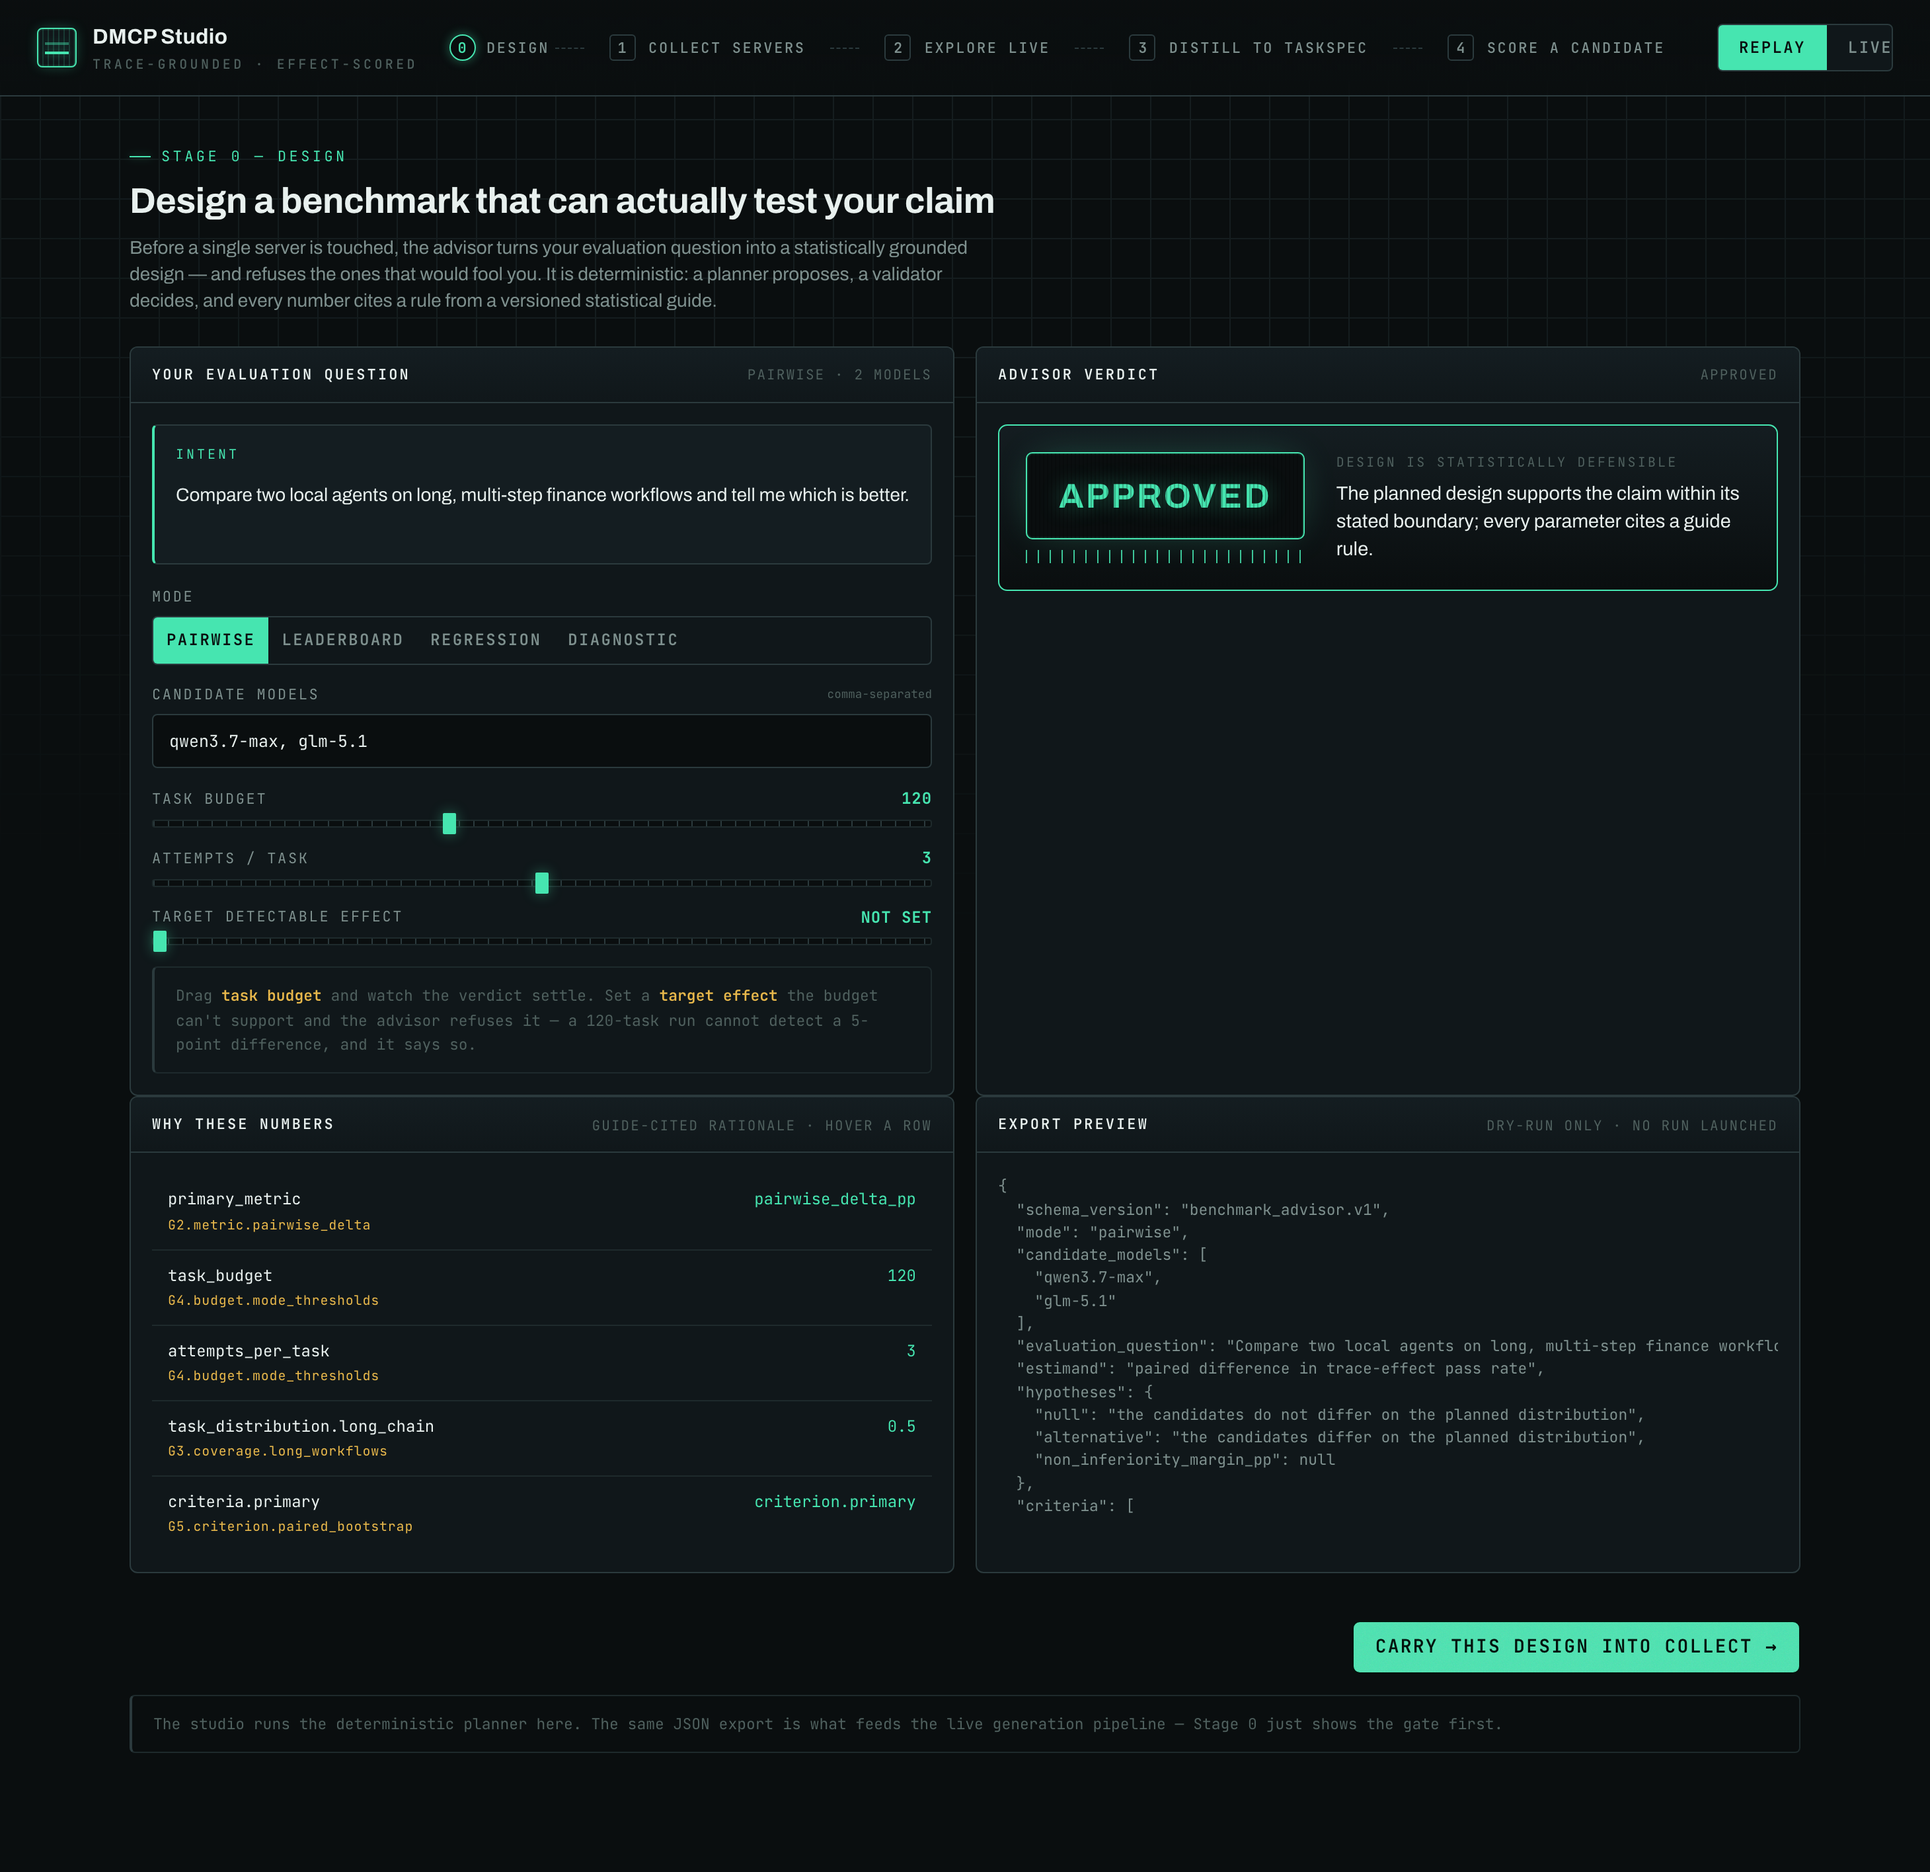
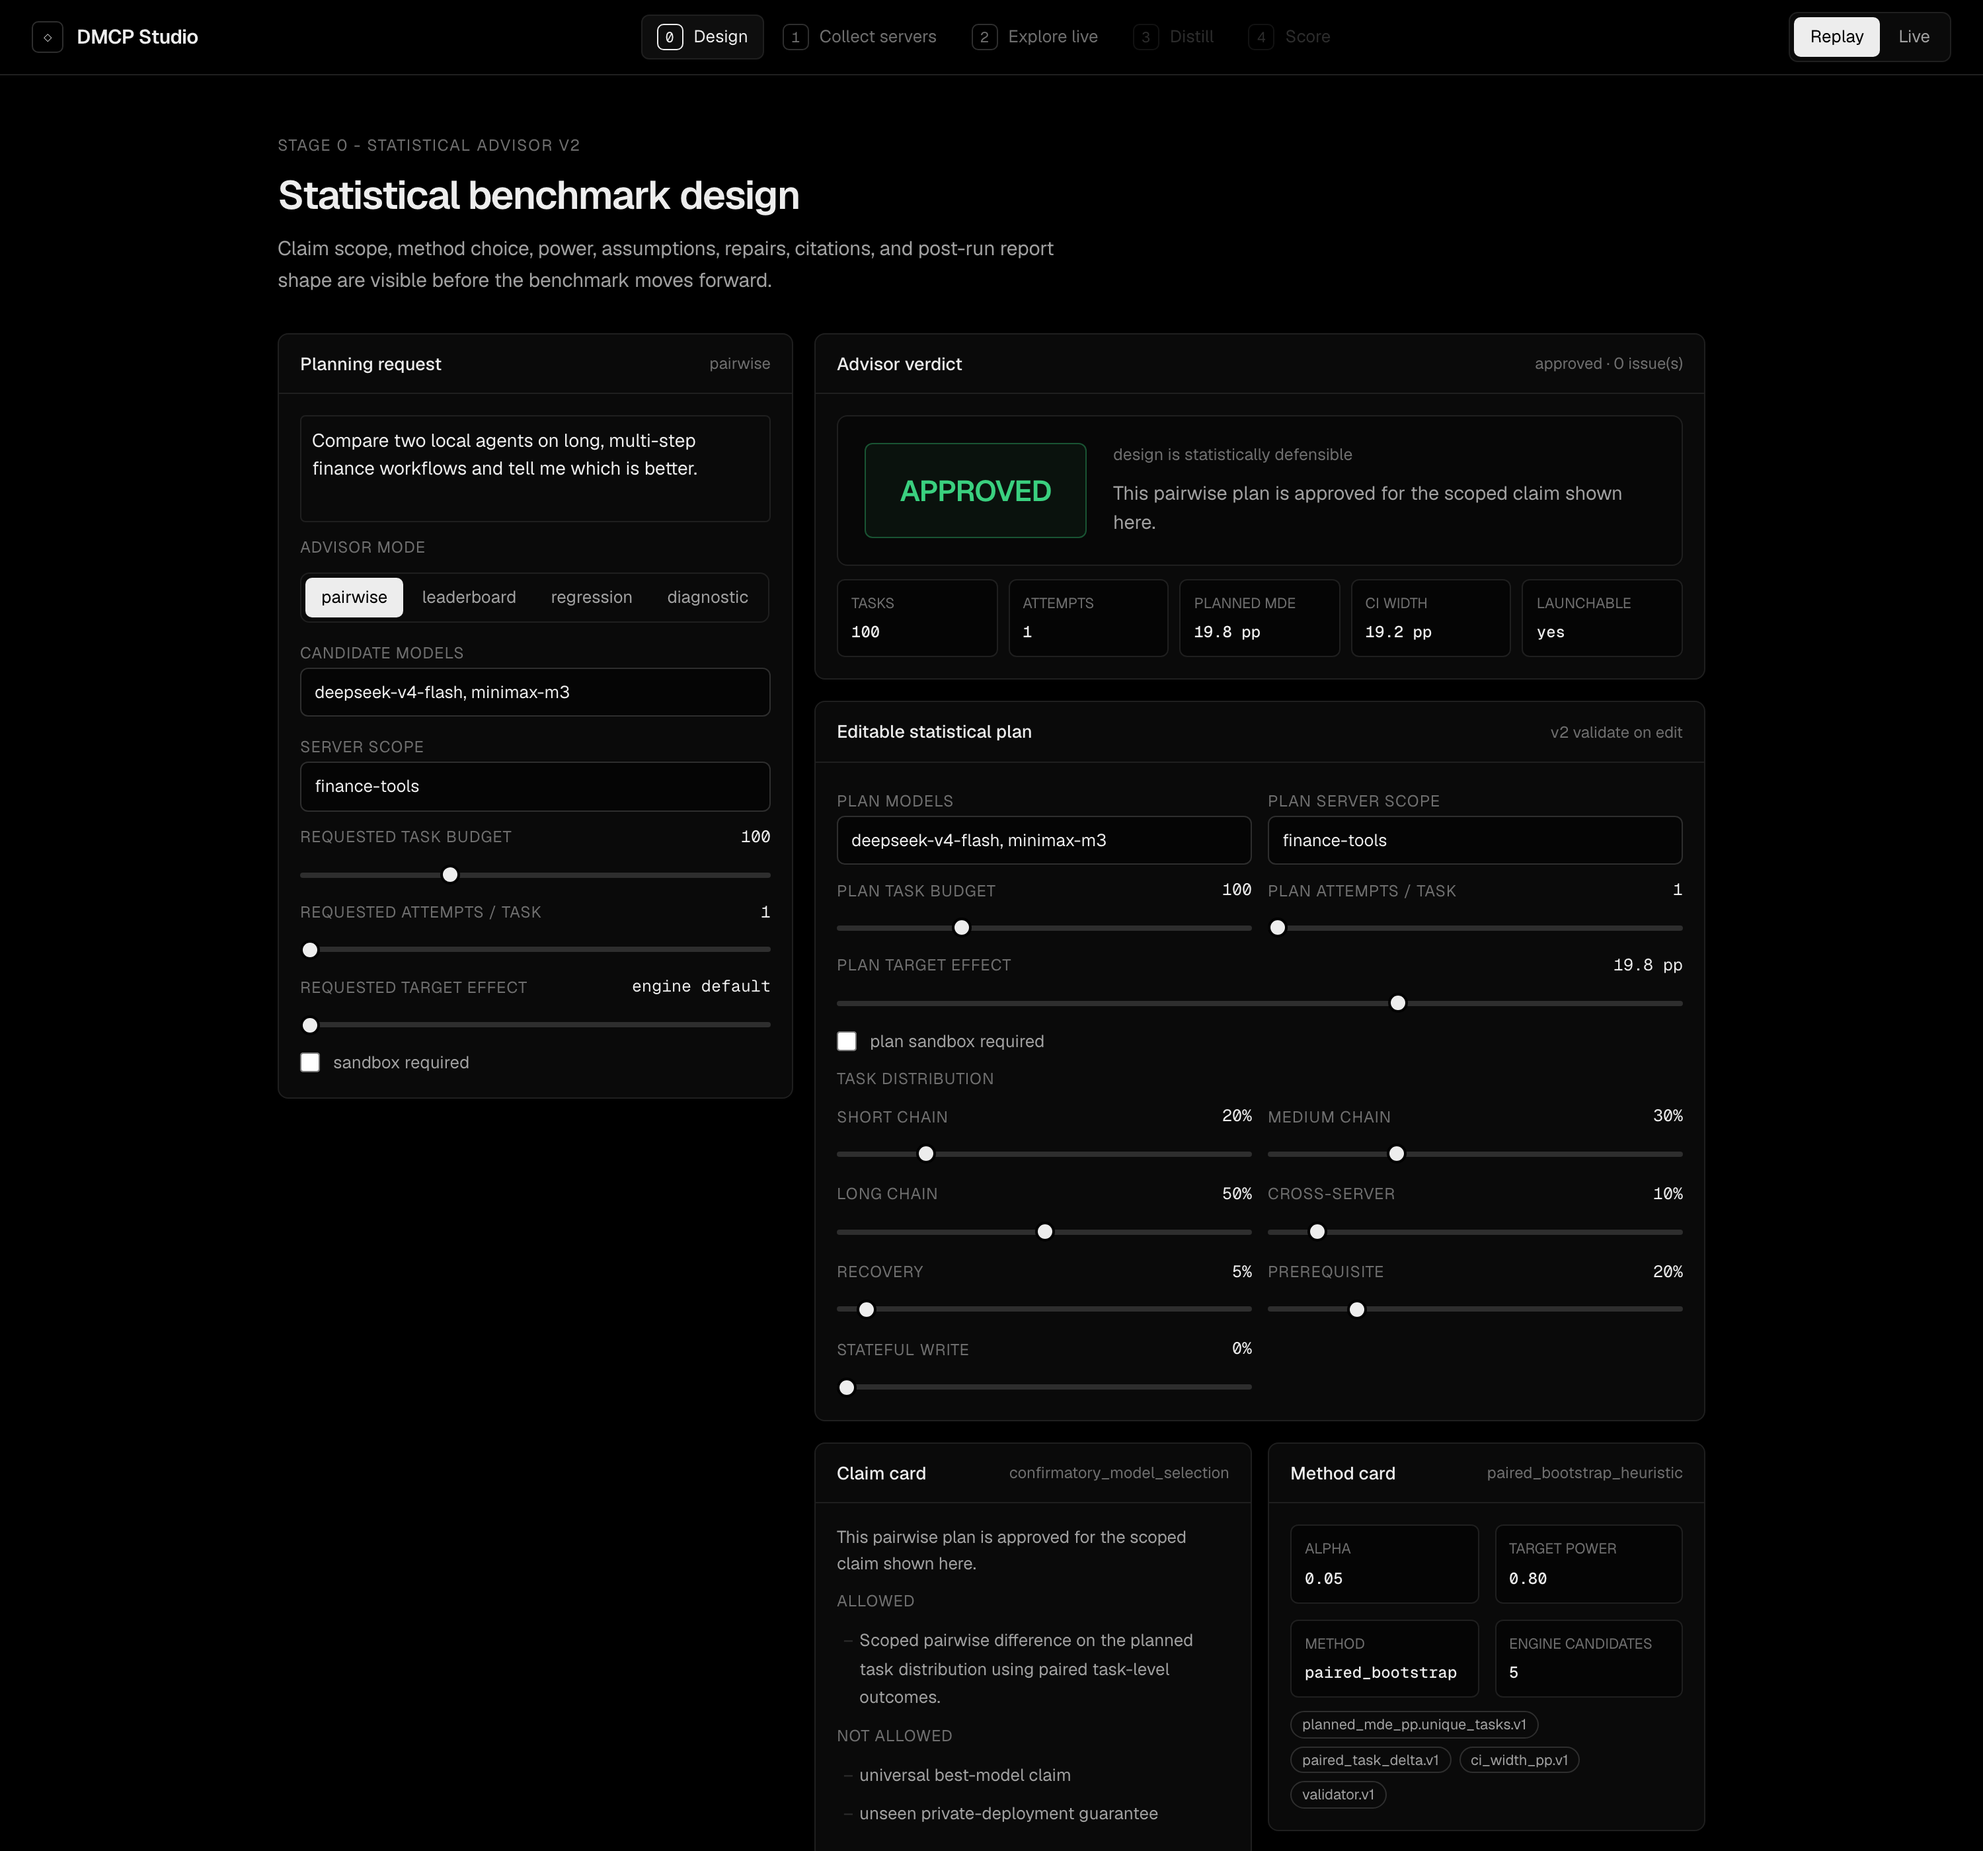
chore(studio): recapture paper figures from the React UI + testid hooks
The committed fig_studio/fig_advisor screenshots were captured from the old
vanilla-JS UI (pre-React), and capture_screenshot.py drove dead DOM ids, so it
could not regenerate them. Rewrite the capture for the React + Geist SPA and
re-shoot both figures against the deterministic REPLAY backend.

- Add minimal data-testid hooks (no behavior change): advisor-stage/data-ready
  and data-status on the Design section, score-stage on the Score section, and
  verdict-chip on the shared Verdict component — stable anchors for the capture.
- Rewrite capture_screenshot.py: drive Stage 0 (advisor v2 workbench) and the
  Stage 4 verdict flip via testids + roles + the nav bar; env-tunable geometry.
- fig_advisor.png: the v2 statistical workbench — APPROVED verdict, MDE/CI metric
  strip, claim card (allowed / not-allowed boundaries), method card + formula
  citations. fig_studio.png: hermes3-8b marked FAILED, checkpoint #5 unmet, the
  download/get_price_history equivalence chips on checkpoint #3.
- Fix a UI polish bug the recapture surfaced: the plan target effect rendered an
  unrounded float (19.810199057996726 pp) -> round to one decimal.

Frontend: typecheck unchanged (pre-existing LaunchJob warning), 30 vitest tests
pass. Paper rebuilds clean: content ends page 6, appendix <= 2 pp, no undefined
refs.

diff --git a/dmcp-studio/frontend/src/stages/Design.tsx b/dmcp-studio/frontend/src/stages/Design.tsx
@@ -556,7 +556,12 @@ export function Design() {
 
   return (
     <FieldHelpProvider>
-      <section className="stage advisor-v2">
+      <section
+        className="stage advisor-v2"
+        data-testid="advisor-stage"
+        data-ready={currentPlan ? "1" : "0"}
+        data-status={status ?? "pending"}
+      >
         <div className="eyebrow">Stage 0 - Statistical Advisor v2</div>
         <h1>Statistical benchmark design</h1>
         <p className="lede">
@@ -966,7 +971,7 @@ function PlanEditor({
         </div>
         <Field
           label="plan target effect"
-          value={target > 0 ? `${target} pp` : "not set"}
+          value={target > 0 ? `${target.toFixed(1)} pp` : "not set"}
           help={HELP.planTarget}
         >
           <Slider

diff --git a/dmcp-studio/frontend/src/components/Verdict.tsx b/dmcp-studio/frontend/src/components/Verdict.tsx
@@ -15,7 +15,9 @@ export function Verdict({
 }) {
   return (
     <div className={"verdict" + (tone ? " " + tone : "")}>
-      <div className="verdict-chip">{chip}</div>
+      <div className="verdict-chip" data-testid="verdict-chip">
+        {chip}
+      </div>
       <div className="verdict-why">
         <div className="verdict-mode">{mode}</div>
         <div className="verdict-text">{children}</div>

diff --git a/dmcp-studio/frontend/src/stages/Score.tsx b/dmcp-studio/frontend/src/stages/Score.tsx
@@ -14,7 +14,7 @@ export function Score() {
   const verdict = done ? scoreVerdict(done, s.scoreMode) : null;
 
   return (
-    <section className="stage">
+    <section className="stage" data-testid="score-stage" data-scored={done ? "1" : "0"}>
       <div className="eyebrow">Stage 4 — effect-scored evaluation</div>
       <h1>Grade the effects, not the answer</h1>
       <p className="lede">

diff --git a/dmcp-studio/experiments/capture_screenshot.py b/dmcp-studio/experiments/capture_screenshot.py
@@ -1,19 +1,28 @@
 #!/usr/bin/env python3
-"""Capture the DMCP Studio hero screenshot for the paper's main figure.
+"""Capture the two DMCP Studio figures for the paper (React + Geist SPA).
 
-Starts the REPLAY backend (which serves the SPA), drives the four stages in a
-headless Chromium to the scoring stage, and screenshots the verdict flip — the
-``hermes3-8b`` candidate, which **passes** answer-matching but is marked
-**FAILED** under effect-scoring (incomplete aggregation). Output is committed as
-the paper's ``fig:studio`` so the figure regenerates as the UI evolves.
+Starts the REPLAY backend (which serves the built ``frontend/dist`` bundle),
+drives the stages in a headless Chromium, and writes two PNGs:
 
-Requires:  uv pip install playwright && uv run playwright install chromium
+* ``fig_advisor.png`` — Stage 0, the Benchmark Advisor v2 statistical workbench
+  (claim card, MDE/power diagnostics, assumptions, alternatives, citations),
+  captured from the default planning request as soon as a plan is returned.
+* ``fig_studio.png`` — Stage 4 scoring, the verdict flip: the ``hermes3-8b``
+  candidate is marked **FAILED** under effect-scoring (incomplete aggregation)
+  even though its prose would pass answer-matching.
+
+Selectors target stable ``data-testid`` hooks + semantic roles, not DOM ids
+(the React rewrite dropped the old vanilla-JS ids). Regenerate after UI changes.
+
+Requires:  uv pip install playwright && python -m playwright install chromium
+Build:     (cd dmcp-studio/frontend && npm ci && npm run build)   # dist must exist
 Run:       uv run python dmcp-studio/experiments/capture_screenshot.py
-Out:       paper_demo/figures/fig_studio.png
+Out:       paper_demo/figures/fig_advisor.png, paper_demo/figures/fig_studio.png
 """
 
 from __future__ import annotations
 
+import os
 import socket
 import subprocess
 import sys
@@ -24,8 +33,18 @@ from playwright.sync_api import sync_playwright
 
 ROOT = Path(__file__).resolve().parents[2]
 STUDIO = ROOT / "dmcp-studio"
-OUT = ROOT / "paper_demo" / "figures" / "fig_studio.png"
+DIST = STUDIO / "frontend" / "dist"
 OUT_ADVISOR = ROOT / "paper_demo" / "figures" / "fig_advisor.png"
+OUT_STUDIO = ROOT / "paper_demo" / "figures" / "fig_studio.png"
+
+# Capture geometry (env-tunable so the figures can be reframed without code edits).
+SCALE = int(os.environ.get("CAP_SCALE", "2"))  # device_scale_factor: 2 = retina/print
+ADVISOR_W = int(os.environ.get("CAP_ADVISOR_W", "1500"))
+ADVISOR_H = int(os.environ.get("CAP_ADVISOR_H", "1400"))  # top crop of the tall workbench
+STUDIO_W = int(os.environ.get("CAP_STUDIO_W", "1500"))
+STUDIO_H = int(os.environ.get("CAP_STUDIO_H", "1000"))
+STUDIO_FULLPAGE = os.environ.get("CAP_STUDIO_FULLPAGE", "1") == "1"
+TIMEOUT = 30_000
 
 
 def _free_port() -> int:
@@ -53,61 +72,62 @@ def capture(port: int) -> None:
     with sync_playwright() as p:
         browser = p.chromium.launch()
         # NB: do NOT set reduced_motion="reduce" — the trace-line reveal is a CSS
-        # `slidein` animation (opacity 0→1), which prefers-reduced-motion disables,
-        # leaving the candidate trajectory invisible. Instead we let animations run
-        # and wait for them to settle before the shot.
-        page = browser.new_context(
-            viewport={"width": 1460, "height": 1000},
-            device_scale_factor=2,  # retina-crisp PNG for print
-        ).new_page()
-        # "commit" (not load/networkidle): the sync <script> + Google Fonts delay
-        # the load events in headless-shell; wait on a concrete element instead.
+        # opacity 0→1 animation that prefers-reduced-motion disables, which would
+        # leave the candidate trajectory invisible. Let animations run and settle.
+        ctx = browser.new_context(
+            viewport={"width": ADVISOR_W, "height": ADVISOR_H},
+            device_scale_factor=SCALE,
+        )
+        page = ctx.new_page()
+        # "commit" (not load/networkidle): the module script + Geist fonts delay the
+        # load event in headless-shell; wait on concrete elements instead.
         page.goto(base, wait_until="commit")
 
-        # Stage 0 — Design: the advisor proposes a design from the default intent;
-        # capture the approved verdict + evidence ledger, then carry it into Collect.
+        # --- Stage 0 — Design: the advisor auto-plans from the default intent. ---
+        page.wait_for_selector('[data-testid="advisor-stage"][data-ready="1"]', timeout=TIMEOUT)
+        # the statistical workbench: metric strip (MDE/CI) + power curve must be drawn.
+        page.wait_for_selector(".advisor-v2 .metric-strip .metric", timeout=TIMEOUT)
+        page.wait_for_selector(".advisor-v2 .curve-row", timeout=TIMEOUT)
+        page.wait_for_timeout(700)  # let panels + verdict settle
+        page.screenshot(path=str(OUT_ADVISOR), full_page=False)
+        print(f"wrote {OUT_ADVISOR}")
+
+        # --- Stage 2 — Explore: servers auto-load and the first is auto-selected, so
+        # the Explore nav is already enabled. Generate a goal and run exploration. ---
+        page.set_viewport_size({"width": STUDIO_W, "height": STUDIO_H})
+        page.locator("button.nav-item", has_text="Explore").click()
+        page.get_by_role("button", name="Run exploration").click()  # auto-waits for goal
+
+        # --- Stage 3 — Distill: nav enables once the trace is recorded; entering the
+        # stage auto-distills. --- (clicks auto-wait until each nav item is enabled)
+        page.locator("button.nav-item", has_text="Distill").click()
+
+        # --- Stage 4 — Score: pick the answer-pass / effect-fail candidate, run it. ---
+        page.locator("button.nav-item", has_text="Score").click()
+        page.locator("button.pick", has_text="hermes3-8b").click()
+        page.get_by_role("button", name="Run candidate").click()
+        # effect mode is the default; wait for the verdict to settle on FAILED.
         page.wait_for_function(
-            "document.getElementById('dProceed') && !document.getElementById('dProceed').disabled",
-            timeout=30_000,
+            "() => { const c = document.querySelector("
+            '\'[data-testid="score-stage"] [data-testid="verdict-chip"]\');'
+            " return c && c.textContent.trim() === 'FAILED'; }",
+            timeout=TIMEOUT,
         )
-        page.wait_for_function(
-            "document.getElementById('dVerdictChip').textContent.trim() === 'APPROVED'",
-            timeout=30_000,
-        )
-        page.wait_for_timeout(500)  # let the verdict + ledger settle
-        page.screenshot(path=str(OUT_ADVISOR), full_page=True)
-        page.click("#dProceed")
+        page.wait_for_timeout(1000)  # let the trace-line + ledger animations settle
+        page.screenshot(path=str(OUT_STUDIO), full_page=STUDIO_FULLPAGE)
+        print(f"wrote {OUT_STUDIO}")
 
-        # Stage 1 → 2: servers auto-load (yfinance pre-selected); generate goal + explore.
-        page.wait_for_selector(".server-card", timeout=30_000)
-        page.click("#toExplore")
-        page.wait_for_function("document.getElementById('goalText').textContent.length > 40")
-        page.click("#runExplore")
-        page.wait_for_selector("#toDistill:not([disabled])", timeout=30_000)
-
-        # Stage 3: distill.
-        page.click("#toDistill")
-        page.wait_for_selector("#toScore:not([disabled])", timeout=30_000)
-
-        # Stage 4: pick the answer-pass / effect-fail candidate and run it.
-        page.click("#toScore")
-        page.wait_for_selector(".cand", timeout=30_000)
-        page.click("text=hermes3-8b")
-        page.click("#runCand")
-        # wait for the verdict to settle on FAILED (effect mode is the default)
-        page.wait_for_function(
-            "document.getElementById('verdictChip').textContent.trim() === 'FAILED'",
-            timeout=30_000,
-        )
-        page.wait_for_timeout(900)  # let the trace-line + ledger animations settle
-
-        page.screenshot(path=str(OUT), full_page=True)
         browser.close()
-    print(f"wrote {OUT}")
-    print(f"wrote {OUT_ADVISOR}")
 
 
 def main() -> int:
+    if not DIST.is_dir():
+        print(
+            f"error: {DIST} not found — build the SPA first:\n"
+            "  (cd dmcp-studio/frontend && npm ci && npm run build)",
+            file=sys.stderr,
+        )
+        return 1
     port = _free_port()
     proc = subprocess.Popen(
         [sys.executable, "-m", "uvicorn", "backend.app:app", "--port", str(port), "--log-level", "warning"],
